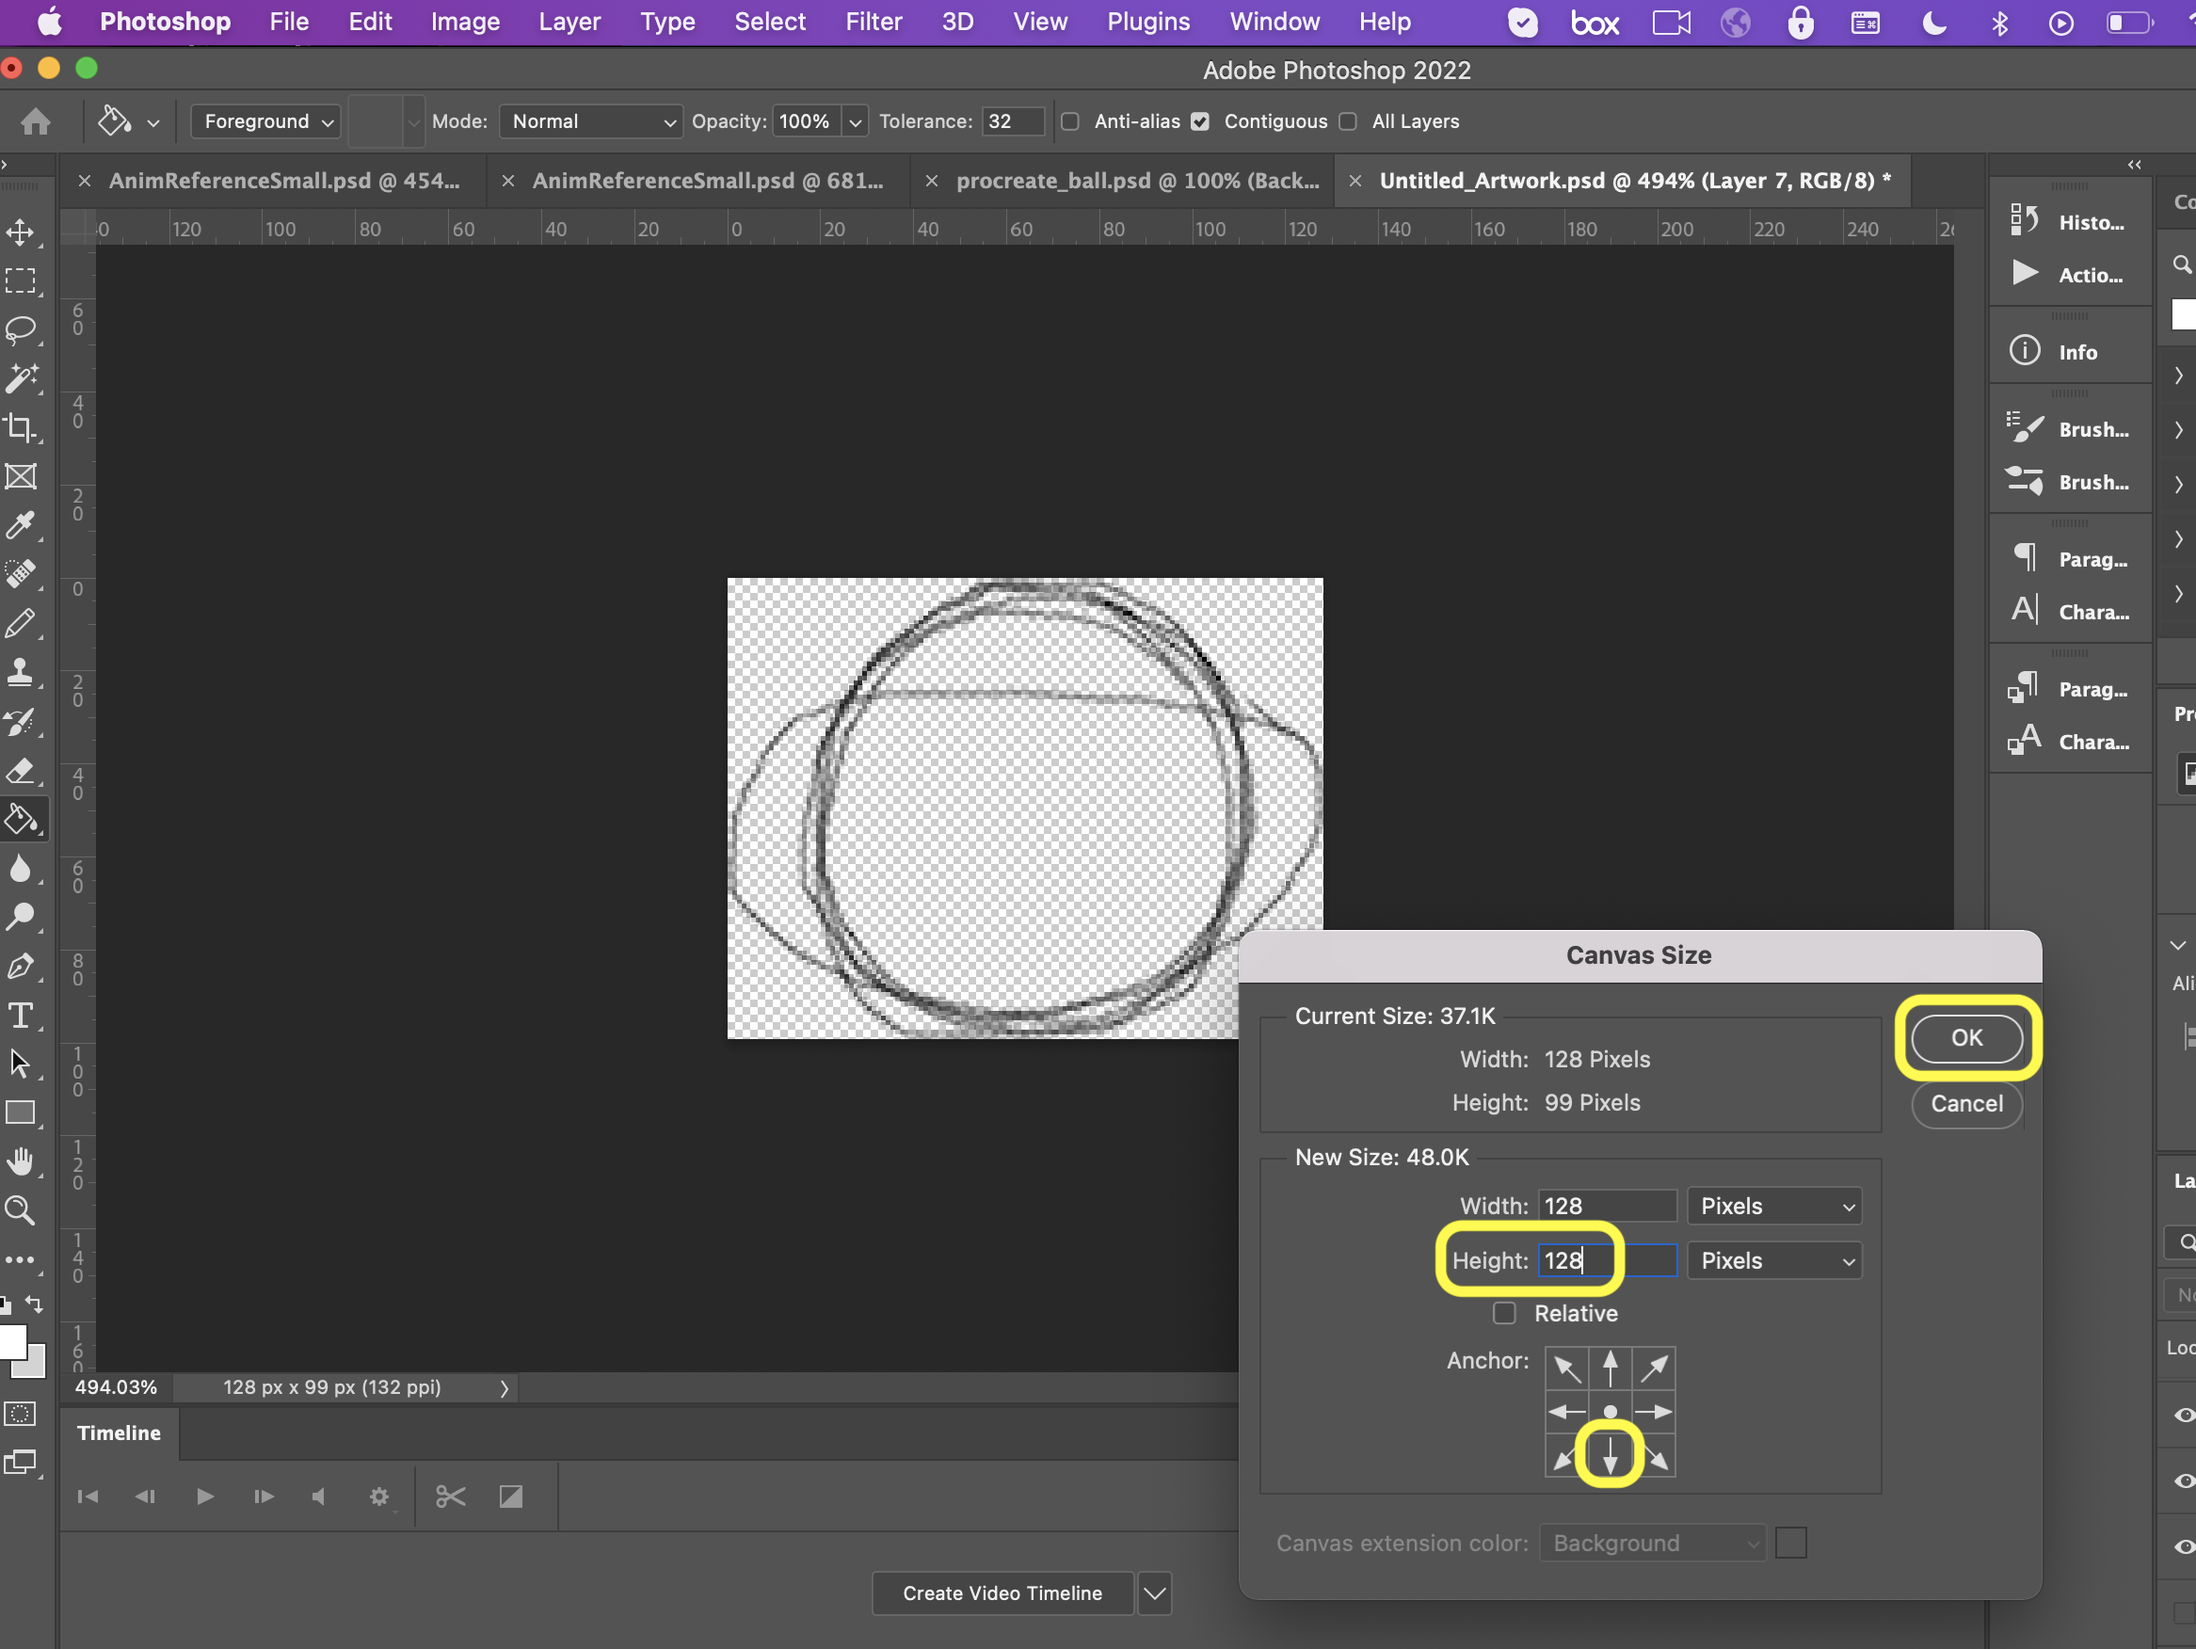
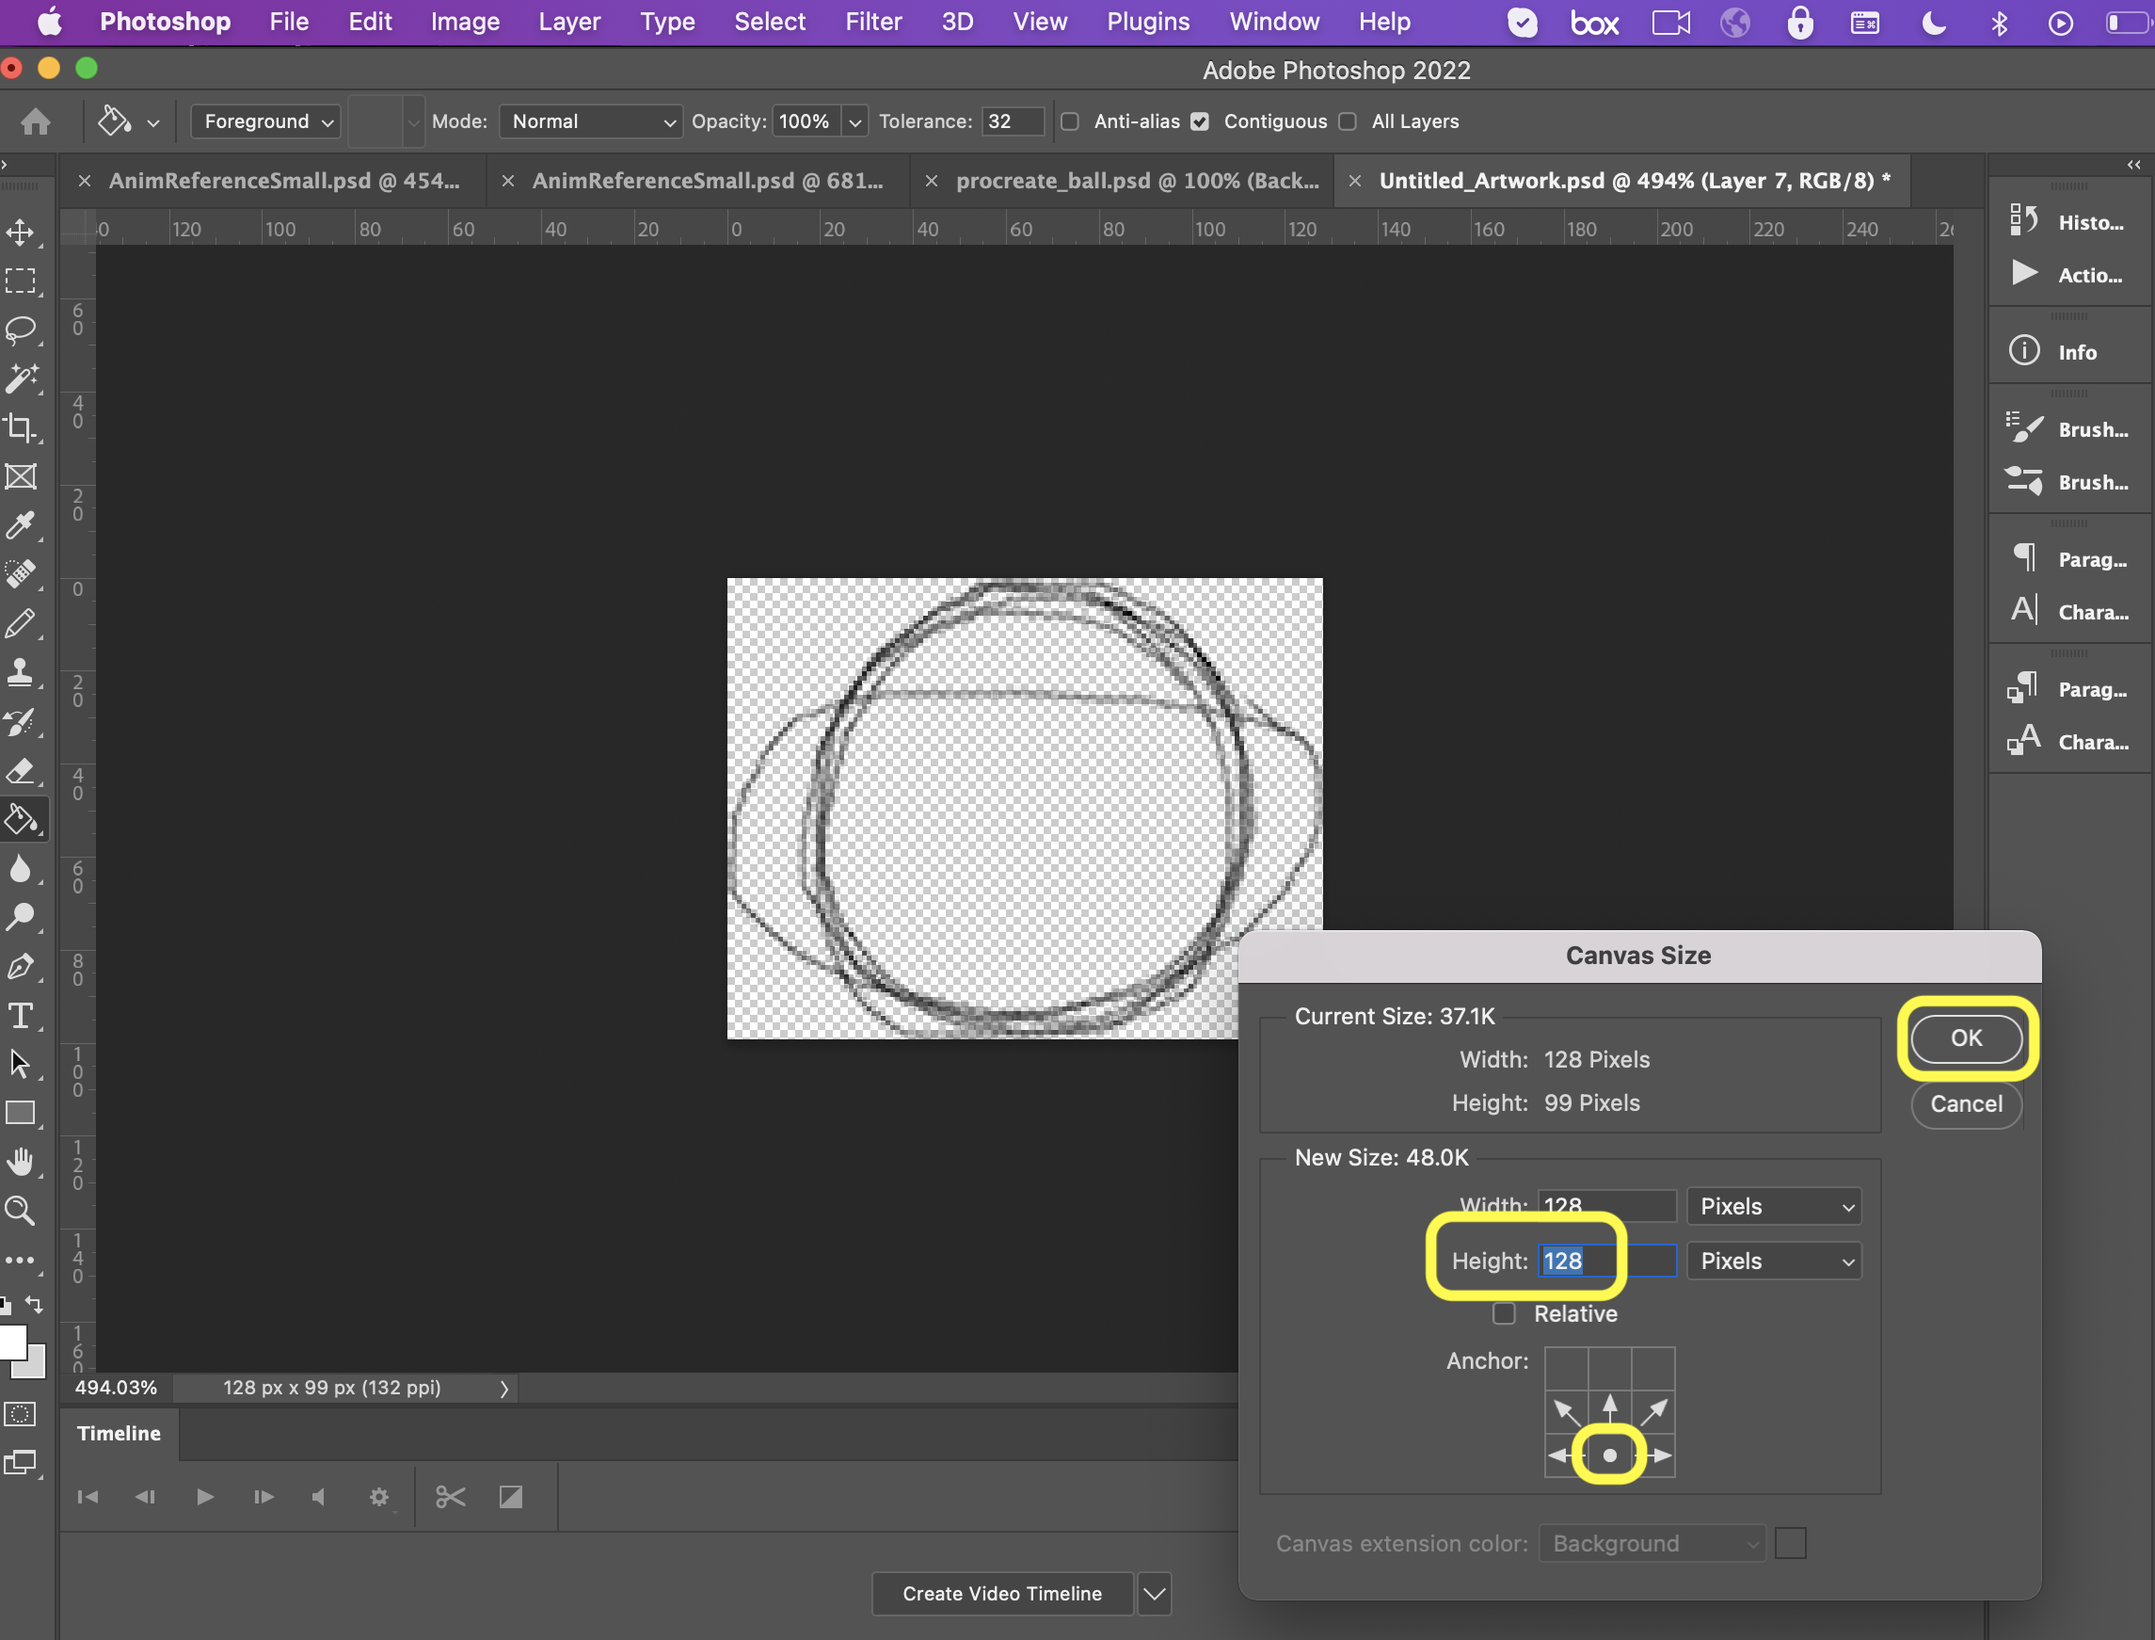
porting walk through

diff --git a/squash-stretch/README.md b/squash-stretch/README.md
@@ -55,11 +55,15 @@ Now go to **Image | Canvas Size** and change the **Height** to `128` and make su
 
 ##### `Step 6.`\|`BTS`| :small_orange_diamond: :small_blue_diamond:
 
-![alt_text](images/.png)
+Now your ball will be a bit smaller than before but contain the two squash frames as well.  It should look something similar to: 
+
+![alt_text](images/ballWithSquash.png)
 
 <img src="https://via.placeholder.com/500x2/45D7CA/45D7CA" alt="drawing" height="2px" alt = ""/>
 
 ##### `Step 7.`\|`BTS`| :small_orange_diamond: :small_blue_diamond: :small_blue_diamond:
+
+
 
 ![alt_text](images/.png)
 
